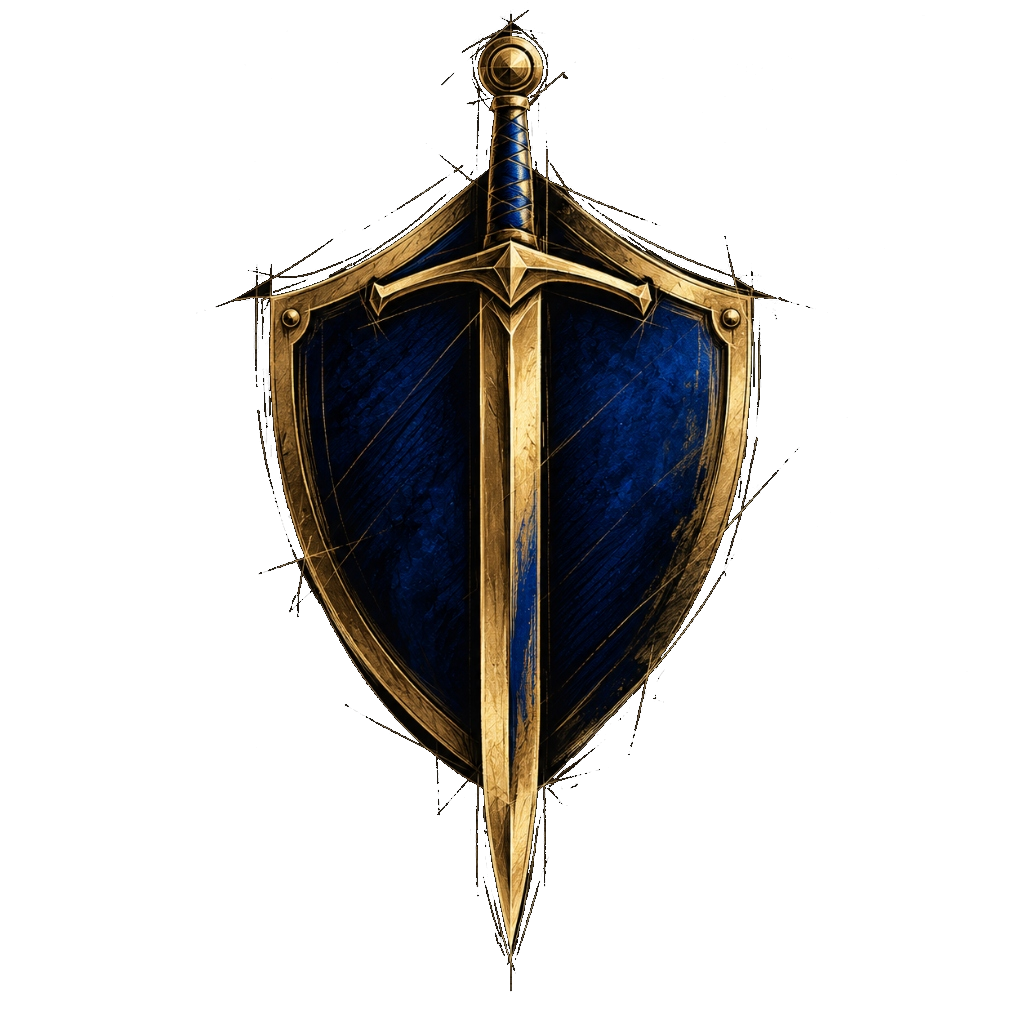
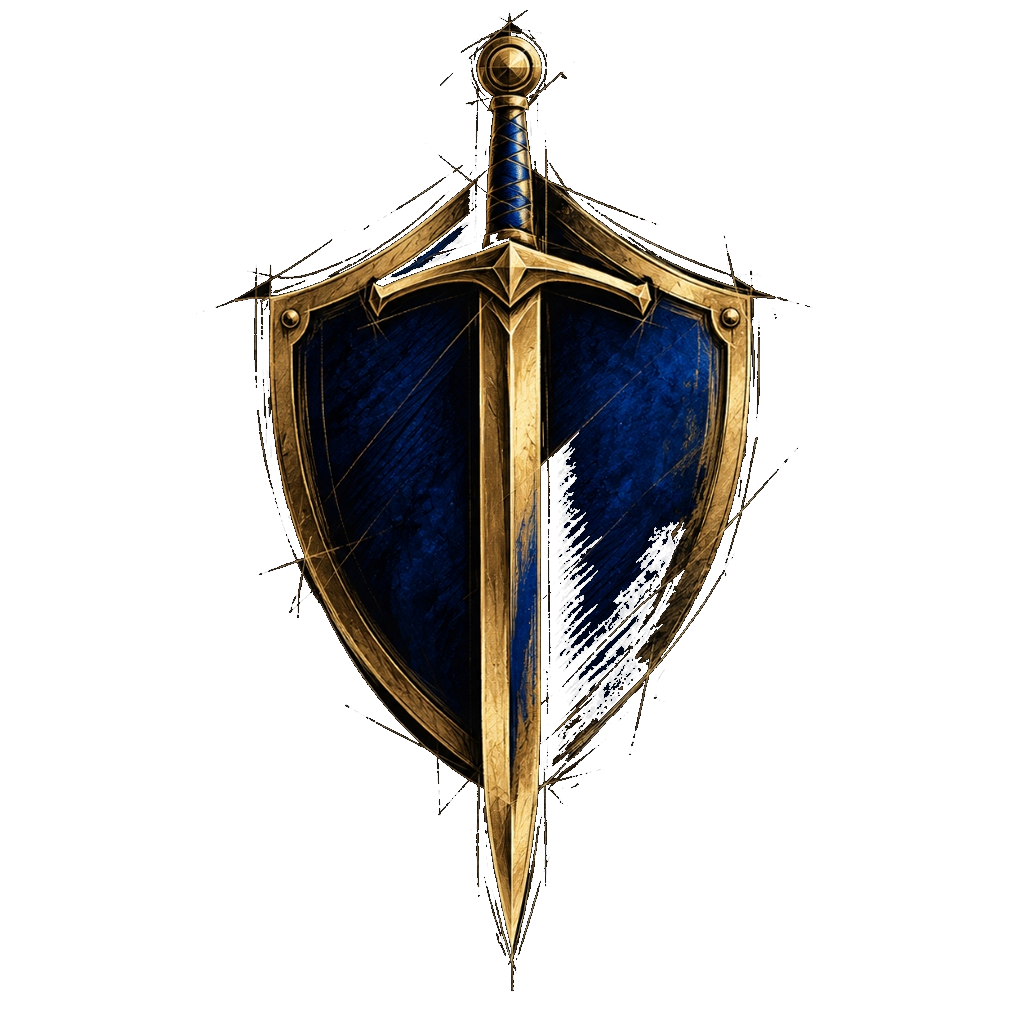
fix(design): align emblem vertically straight without tilt

diff --git a/src/pages/HomePage.tsx b/src/pages/HomePage.tsx
@@ -119,7 +119,7 @@ export const HomePage: React.FC<HomePageProps> = ({ onNavigate, onOpenSync, isSy
           <img
             src={emblemImg}
             alt="Эмблема ПОНБ"
-            className="w-72 h-72 sm:w-80 sm:h-80 md:w-88 md:h-88 lg:w-[390px] lg:h-[390px] object-contain drop-shadow-[0_15px_35px_rgba(0,0,0,0.85)] opacity-40 sm:opacity-75 md:opacity-90 lg:opacity-95 transform rotate-[-1deg] transition-all duration-700"
+            className="w-72 h-72 sm:w-80 sm:h-80 md:w-88 md:h-88 lg:w-[390px] lg:h-[390px] object-contain drop-shadow-[0_15px_35px_rgba(0,0,0,0.85)] opacity-40 sm:opacity-75 md:opacity-90 lg:opacity-95 transition-opacity duration-500"
           />
         </div>
       </div>
